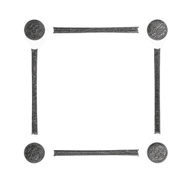
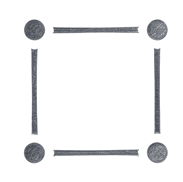
fix(brand): ファビコンをシンボルマークへ差し替え＋配信用ロゴの白地焼き込みを是正
サイトのタブが Next.js 既定アイコンのままだったのを TENZU シンボルへ。
併せて、フッター（bg-3）でロゴだけ白い箱に見えていた原因を根本是正した。

- app/icon.svg 新設。鉛筆筆致の原本は 16-32px で灰色に潰れて visible gap が
  消えるため、極小帯だけ幾何でリドロー。32 単位・全座標を偶数にすることで
  16/32/48px のどれでも整数ピクセル境界に落ちる（細線でも滲まない）
- app/favicon.ico を icon.svg から 16/32/48 で再生成し、既定アイコンを置換
- app/apple-icon.png 新設。180px は質感が見えるので鉛筆筆致の原本を使う
- web/public/assets/logo-horizontal.png / symbol-floating.png は白地を焼き込んだ
  版だったので、rev-5 バンドルの -ink（透過）版へ差し替え。アートワークは同一。
  商品PDF は pdf-lib の embedPng が SMask 付きで埋め込むことを確認済み
- visual-identity.md §5.1 / §5.3 に運用ルールを追記（配信用は -ink から複製する／
  ファビコンは偶数座標を維持する）

diff --git a/design/visual-identity.md b/design/visual-identity.md
@@ -145,6 +145,8 @@ spacing は base 4px スケール（`--s-1`〜`--s-24`）。desktop margin 64px 
 | Design SSOT | rev-5 bundle `assets/tenzu-logo-horizontal*.png`・`tenzu-symbol-floating*.png`（ink/white/cream/teal 4 色トーン） |
 | Code 配信用 | `web/public/assets/logo-horizontal.png`・`symbol-floating.png` |
 
+**Code 配信用は必ず `-ink`（透過）版から複製する**。トーン無印の `tenzu-logo-horizontal.png` 等は白地を焼き込んだ版で、bg-3 のフッターに置くと白い箱が出る。
+
 色トーン: ink 既定（白・bg-3 上）／ cream・white は反転用（fg・accent 背景上。cream＝紙の温度を残す既定、white＝最大コントラスト）／ teal は到達訴求バナーのみの特例。
 
 #### §5.2 Lockup 5 バリアント
@@ -160,6 +162,7 @@ spacing は base 4px スケール（`--s-1`〜`--s-24`）。desktop margin 64px 
 #### §5.3 運用ルール
 
 - **最小サイズ**: Horizontal は高さ 28px ／ 0.8cm（Ξ-form E が崩れない限界）。それ未満が必要な場面は Symbol に置き換える（Symbol 最小 16px・1:1 固定）。推奨 36-48px（web header）。ヘッダ実機 32-36px で鉛筆質感が見えないのは想定内
+- **ファビコン・アプリアイコン**: 16-48px 帯は鉛筆筆致の原本を縮小すると線が灰色に潰れて visible gap が消えるため、**極小用の幾何リドロー**を使う（`web/app/icon.svg` が原本・`favicon.ico` は 16/32/48 をここから生成）。32 単位・**全座標を偶数**に揃えることで 3 サイズとも整数ピクセル境界に落ちる（＝細線でも滲まない）ので、触るときは偶数を維持する。点：線 = 3:1（原本の 20:6 と同比）。地は純白ベタ（透過はダークタブで消える）。180px の `apple-icon.png` は大きく出るので鉛筆筆致の原本を使う
 - **safe area**: 周囲に Symbol 高さの 1/2 を最小余白として確保。アスペクト比固定（変形禁止）
 - **業態識別句「点図形（点描写）プリントの専門店」を必ず併記**（Plex Sans JP 400・12px・fg-3。header は水平並列・footer は縦併記）。Symbol 単独使用時は未認知層向け面なら「TENZU」テキストラベル（Plex 500 14px）を添える
 - **タグライン本体（コア「見て、考えて、書く力を、点描写から。」）はロゴに同梱しない**。3 段セット（コア＋サブコピー＋業態識別句・SSOT は [brand.md §12](../foundation/brand.md)）は LP ヒーロー・OG・名刺等のレイアウト側で併記する
